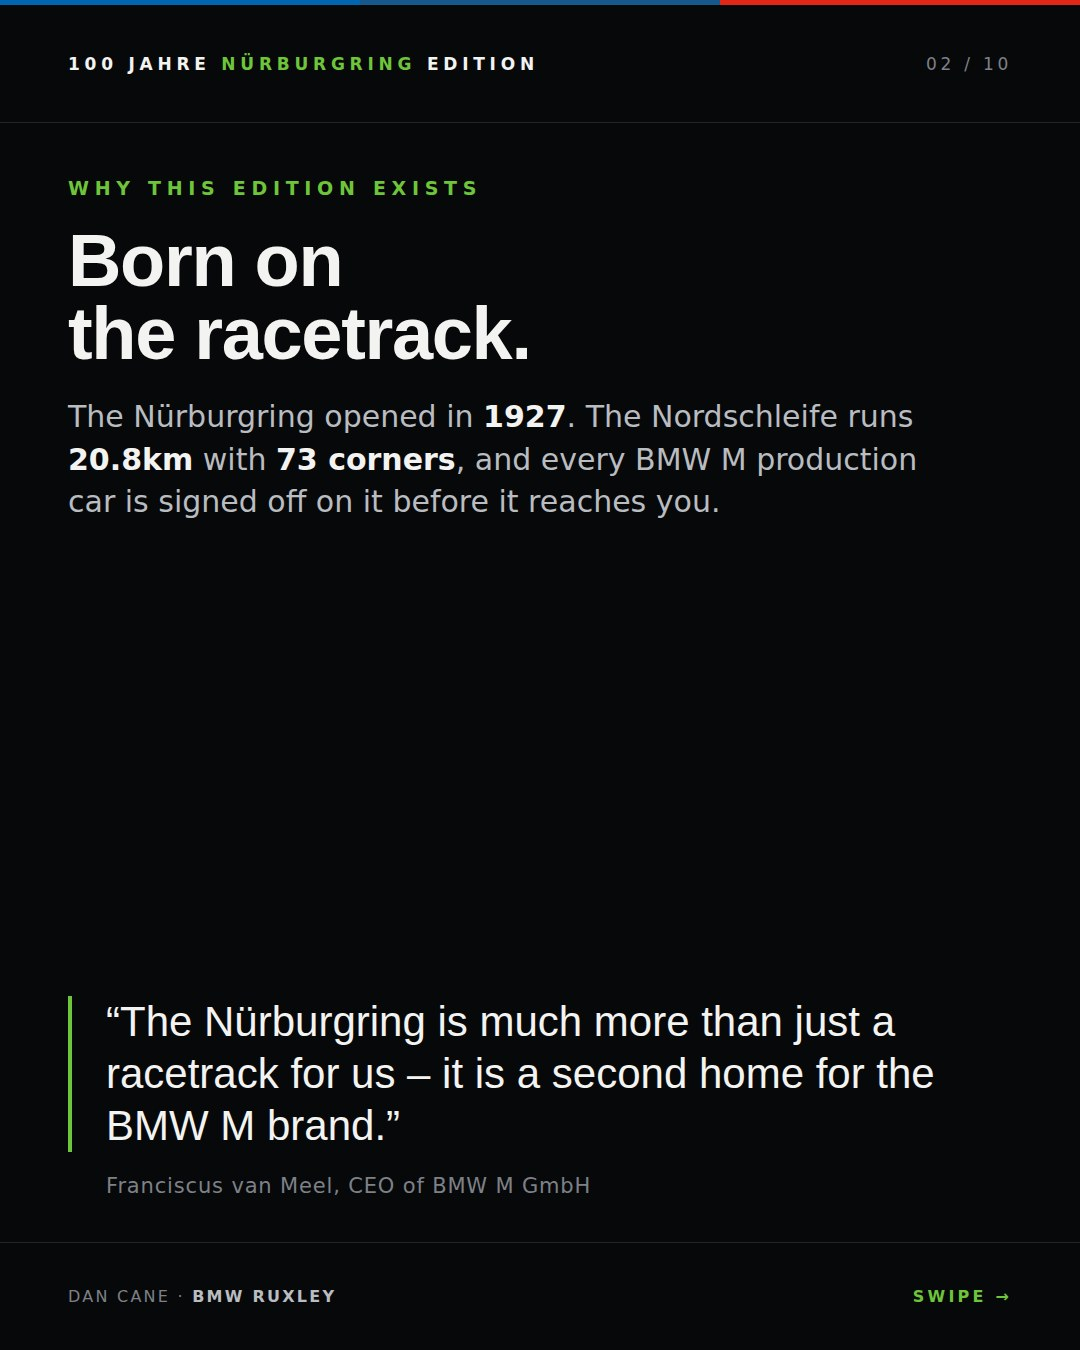
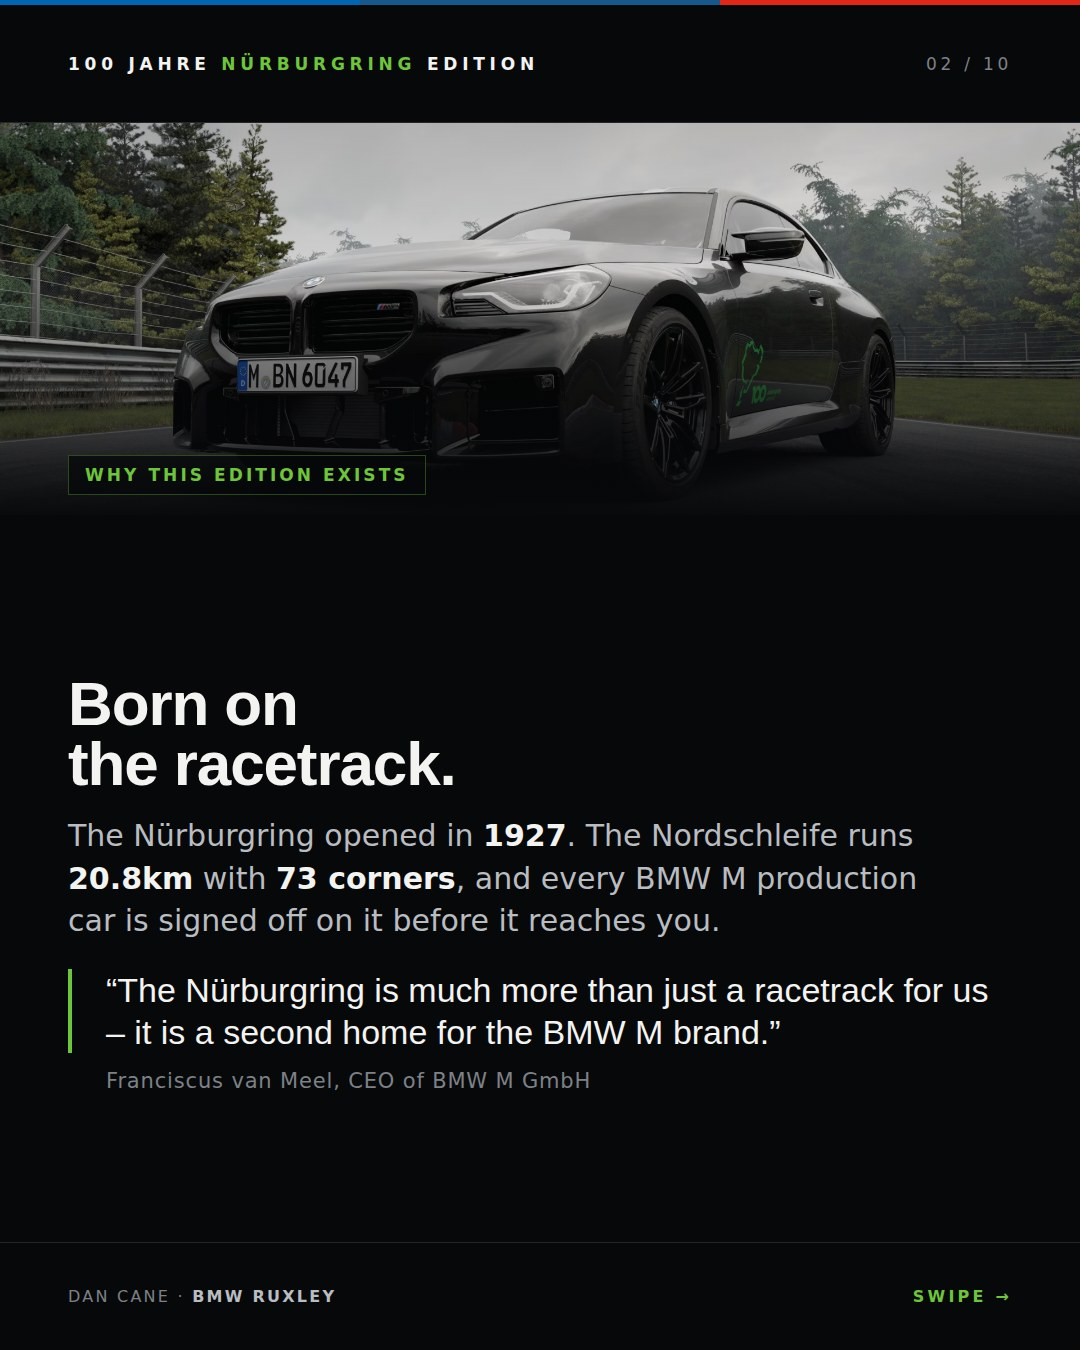
Put the lineup shot on slide 5 and the black car on slide 2
Dan asked for the grid photograph by name, so it is in, on the slide that
names all six models. It does have the three Motorrad models parked down the
grid in it; the copy still does not mention them anywhere.

The Sapphire Black car it displaced moves up to slide 2, which had been the
one car slide with no picture on it, and the band height is now per-slide so
that slide keeps room for van Meel's quote underneath.

Also removes the "All six edition models" kicker from slide 5, which was
sitting directly under the band's own green caption and reading as a mistake.
An earlier pass meant to drop it and silently matched nothing.

Claude-Session: https://claude.ai/code/session_01QLaENZQqUdtkoviAZUu84m

diff --git a/automation/nurburgring-post.py b/automation/nurburgring-post.py
@@ -11,12 +11,13 @@ Every factual line comes from BMW M's own edition page:
 https://www.bmw-m.com/en/all-models/overview-m-and-m-performance/edition-100-jahre-nurburgring.html
 
 This is a car post. The edition also covers three BMW Motorrad models, capped
-at 100 units worldwide each, and they are left out at Dan's request - including
-the one BMW lineup photograph, which has the bikes on the grid in it.
+at 100 units worldwide each, and the copy never mentions them. The lineup
+photograph on slide 5 does have them parked down the grid in it - Dan asked for
+that shot specifically, so it is in.
 
 That cap was the only published limit in the whole edition, so with the bikes
-gone there is no build number to quote: BMW give no production cap for the six
-cars. Urgency here is built on what is true - a finite allocation, an order
+out of the copy there is no build number to quote: BMW give no production cap
+for the six cars. Urgency here is built on what is true - a finite allocation, an order
 window, and the M2 not arriving until January - because a made-up build number
 on a public post is the first thing a customer checks.
 """
@@ -38,8 +39,9 @@ DAM = ('https://www.bmw-m.com/content/dam/bmw/marketBMW_M/www_bmw-m_com/'
 # and the only BMW pixels that ship are the ones baked into a finished card.
 CACHE = os.path.join(HERE, '.image-cache')
 PHOTOS = {
-    # The only BMW lineup shot has the motorcycles on the grid in it, so it is
-    # deliberately not used - this is a car post.
+    # The lineup has the motorcycles parked down the grid in it. Dan asked for
+    # the shot anyway, so it is in - the copy still never mentions them.
+    'lineup': DAM + '/bmw-m-editions-100-jahre-nurburgring-02-16x9.jpg',
     'hero':   DAM + '/bmw-m2-edition-100-jahre-nurburgring-01-9x16.jpg',
     'green':  DAM + '/bmw-m4-edition-100-jahre-nurburgring-06-3x2.jpg',
     'detail': DAM + '/bmw-m4-edition-100-jahre-nurburgring-07-3x2.jpg',
@@ -248,12 +250,12 @@ li b{color:var(--paper);font-weight:700}
 """
 
 
-def page(n, inner, swipe=True, hero=None, band=None, band_cap=''):
+def page(n, inner, swipe=True, hero=None, band=None, band_cap='', band_h=496):
     foot_right = ('<span class="swipe">Swipe &rarr;</span>' if swipe
                   else '<span class="swipe">dan-sells.co.uk</span>')
     shot = '<div class="shot"><img src="%s"/></div>' % hero if hero else ''
-    strip = ('<div class="band"><img src="%s"/>%s</div>'
-             % (band, '<span class="cap">%s</span>' % band_cap if band_cap else '')
+    strip = ('<div class="band" style="height:%dpx"><img src="%s"/>%s</div>'
+             % (band_h, band, '<span class="cap">%s</span>' % band_cap if band_cap else '')
              ) if band else ''
     return """<!DOCTYPE html><html><head><meta charset="utf-8"><style>%s</style></head>
 <body class="%s">
@@ -290,16 +292,15 @@ def slides(px):
   {'hero': px['hero']}),
 
  # 02 why it exists
- ("""<div class="kicker">Why this edition exists</div>
-    <h2>Born on<br/>the racetrack.</h2>
+  ("""<h2 style="font-size:62px;margin-bottom:20px">Born on<br/>the racetrack.</h2>
     <p class="lede">The N&uuml;rburgring opened in <b>1927</b>. The Nordschleife runs
       <b>20.8km</b> with <b>73 corners</b>, and every BMW M production car is signed
       off on it before it reaches you.</p>
-    <div class="sp"></div>
-    <p class="quote">&ldquo;The N&uuml;rburgring is much more than just a racetrack
-      for us &ndash; it is a second home for the BMW M brand.&rdquo;</p>
-    <p class="attrib">Franciscus van Meel, CEO of BMW M GmbH</p>""",
-  {}),
+    <p class="quote" style="margin-top:26px;font-size:34px">&ldquo;The N&uuml;rburgring
+      is much more than just a racetrack for us &ndash; it is a second home for the
+      BMW M brand.&rdquo;</p>
+    <p class="attrib" style="margin-top:16px">Franciscus van Meel, CEO of BMW M GmbH</p>""",
+  {'band': px['black'], 'band_cap': 'Why this edition exists', 'band_h': 392}),
 
  # 03 the colour
  ("""<div class="kicker">The thread running through it</div>
@@ -325,8 +326,7 @@ def slides(px):
   {'band': px['detail'], 'band_cap': 'What you only get on this one'}),
 
  # 05 the six, named
- ("""<div class="kicker">All six edition models</div>
-    <h2 style="font-size:58px;margin-bottom:22px">Six cars.<br/>One colour.</h2>
+ ("""    <h2 style="font-size:58px;margin-bottom:22px">Six cars.<br/>One colour.</h2>
     <div class="models">
       <div><b>M2</b><small>Coup&eacute; &middot; January 2027</small></div>
       <div><b>M3</b><small>Saloon &middot; order now</small></div>
@@ -337,7 +337,7 @@ def slides(px):
     </div>
     <p class="lede" style="margin-top:20px;font-size:24px">Prefer it quieter?
       Every one is also in <b>Sapphire Black metallic</b>, green accents kept.</p>""",
-  {'band': px['black'], 'band_cap': 'Or Sapphire Black metallic'}),
+  {'band': px['lineup'], 'band_cap': 'All of them, on the grid at the Ring'}),
 
  # 06 M2
  ("""<div class="tag warn">Orders open January 2027</div>

diff --git a/CLAUDE.md b/CLAUDE.md
@@ -1057,11 +1057,12 @@ slides. Edit the `SLIDES` list and run it again.
 
 Three things it has to keep:
 
-- **No bikes, and therefore no build number.** The edition also covers three
-  BMW Motorrad models, and they are out at Dan's request - including the one
-  BMW lineup photograph, which has them on the grid in it. Their 100-units-
-  worldwide cap was the only published limit in the edition, so with them gone
-  there is no figure to quote: BMW give no production cap for the six cars.
+- **No bikes in the copy, and therefore no build number.** The edition also
+  covers three BMW Motorrad models and the slides never mention them. The one
+  exception is the lineup photograph on slide 5, which has them parked down the
+  grid - Dan asked for that shot by name. Their 100-units-worldwide cap was the
+  only published limit in the edition, so with them out of the copy there is no
+  figure to quote: BMW give no production cap for the six cars.
   Slide 10 builds urgency on allocation and the order dates instead. Do not
   invent a production figure to make the post land harder - it is the first
   thing a customer checks.
